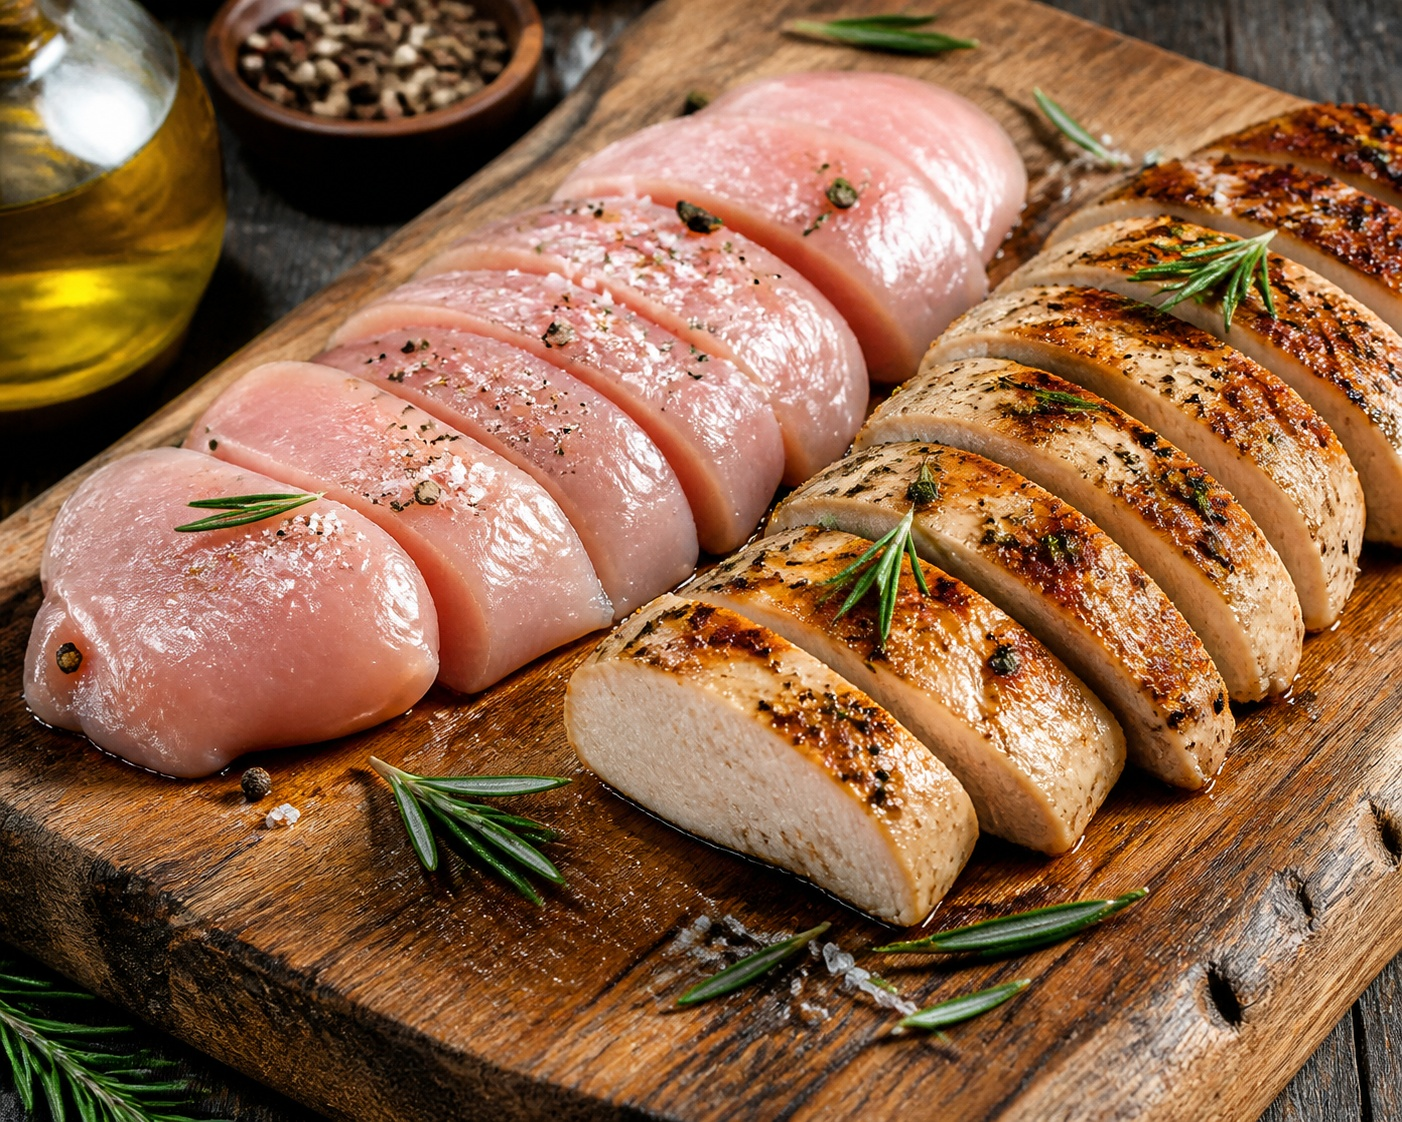
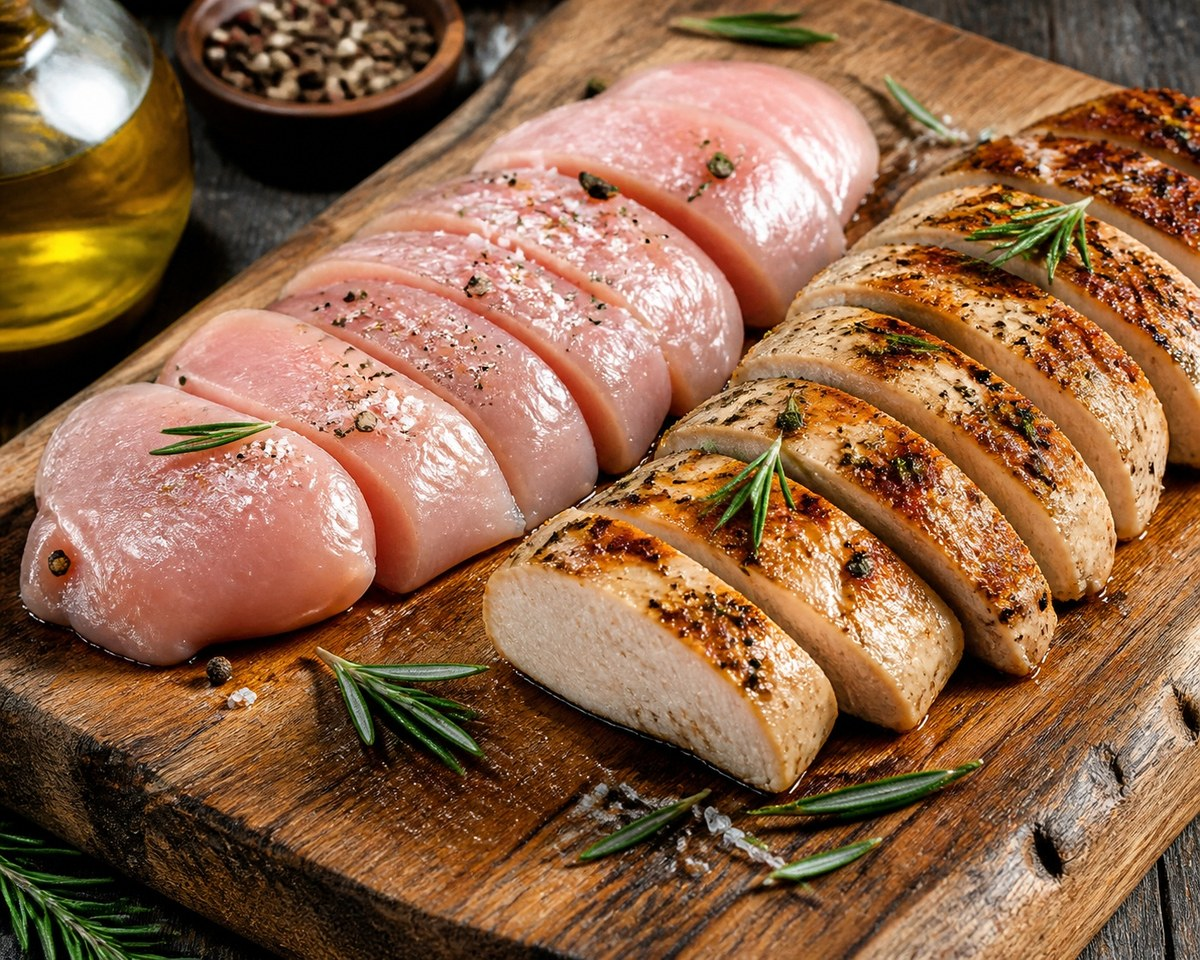
perf(lcp): 히어로 이미지 2장 1200px 규격화 — 닭가슴살 797KB→362KB, 고등어 729KB→289KB
- 1402x1122·1536x1024로 남아 있던 두 이미지를 다른 글과 같은 1200px 기준으로 리샘플(비율 유지)
- JPEG q88·progressive·optimize 재인코딩, 표시 크기(최대 740px) 대비 1.6x 해상도 유지
- 해당 4편(한·영)의 width/height 속성을 실제 파일 크기와 일치하도록 갱신

Changed region(s): [[0.9558, 0.6562, 0.9867, 0.6875]]

diff --git a/_posts/2026-11-07-mackerel-nutrition-benefits.md b/_posts/2026-11-07-mackerel-nutrition-benefits.md
@@ -2,7 +2,7 @@
 layout: post
 title: "고등어 칼로리 205kcal와 오메가-3 2,299mg, 구이 vs 조림"
 date: 2026-11-07 14:30:00 +0900
-last_modified_at: 2026-11-16 08:48:19 +0900
+last_modified_at: 2026-11-16 08:55:09 +0900
 lang: ko
 category: "수산물"
 tags: [고등어, 오메가3, DHA, EPA, 뇌건강, 혈관건강]
@@ -11,7 +11,7 @@ permalink: /posts/mackerel-nutrition-benefits/
 image: "/assets/images/mackerel.jpg"
 ---
 
-<img src="/assets/images/mackerel.jpg" alt="신선한 고등어와 노릇하게 구워진 고등어 구이 단면" width="1536" height="1024" loading="eager" fetchpriority="high" decoding="async">
+<img src="/assets/images/mackerel.jpg" alt="신선한 고등어와 노릇하게 구워진 고등어 구이 단면" width="1200" height="800" loading="eager" fetchpriority="high" decoding="async">
 *▲ 짙푸른 등과 은백색 복부를 지닌 고등어(Mackerel)는 혈관벽의 염증을 잠재우는 EPA와 뇌신경세포 시냅스 가소성을 유지하는 DHA, 그리고 뼈 건강의 핵심인 비타민 D가 최상급으로 농축된 천연 오메가-3의 보고입니다.*
 
 <div class="answer-first">

diff --git a/_posts/2026-11-07-chicken-breast-nutrition-benefits.md b/_posts/2026-11-07-chicken-breast-nutrition-benefits.md
@@ -2,7 +2,7 @@
 layout: post
 title: "닭가슴살 100g 단백질 23.1g과 칼로리 110kcal, 삶는 법"
 date: 2026-11-07 14:30:00 +0900
-last_modified_at: 2026-11-16 08:48:19 +0900
+last_modified_at: 2026-11-16 08:55:09 +0900
 lang: ko
 category: "육류"
 tags: [닭가슴살, 단백질, BCAA, 이미다졸디펩티드, 근합성]
@@ -11,7 +11,7 @@ permalink: /posts/chicken-breast-nutrition-benefits/
 image: "/assets/images/chicken-breast.jpg"
 ---
 
-<img src="/assets/images/chicken-breast.jpg" alt="신선한 닭가슴살 조리 단면" width="1402" height="1122" loading="eager" fetchpriority="high" decoding="async">
+<img src="/assets/images/chicken-breast.jpg" alt="신선한 닭가슴살 조리 단면" width="1200" height="960" loading="eager" fetchpriority="high" decoding="async">
 *▲ 저지방 고단백의 대표 식재료인 닭가슴살(Chicken Breast)은 골격근 합성의 방아쇠인 류신(Leucine)을 비롯한 BCAA와 철새의 장거리 비행을 지탱하는 항피로 펩타이드인 이미다졸 디펩티드의 결정체입니다.*
 
 <div class="answer-first">

diff --git a/_posts/2026-11-07-en-chicken-breast-nutrition-benefits.md b/_posts/2026-11-07-en-chicken-breast-nutrition-benefits.md
@@ -2,7 +2,7 @@
 layout: post
 title: "Chicken Breast Nutrition: 23 g Protein, 110 Calories"
 date: 2026-11-07 14:30:00 +0900
-last_modified_at: 2026-11-16 08:48:19 +0900
+last_modified_at: 2026-11-16 08:55:09 +0900
 lang: en
 category: "Meat"
 tags: [Chicken Breast, Protein, BCAA, Imidazole Dipeptides, Muscle Protein Synthesis]
@@ -11,7 +11,7 @@ permalink: /en/posts/chicken-breast-nutrition-benefits/
 image: "/assets/images/chicken-breast.jpg"
 ---
 
-<img src="/assets/images/chicken-breast.jpg" alt="Fresh Sliced Cooked Chicken Breast on Cutting Board" width="1402" height="1122" loading="eager" fetchpriority="high" decoding="async">
+<img src="/assets/images/chicken-breast.jpg" alt="Fresh Sliced Cooked Chicken Breast on Cutting Board" width="1200" height="960" loading="eager" fetchpriority="high" decoding="async">
 *▲ Low-fat and dense in essential amino acids, chicken breast serves as the gold standard protein source, providing leucine triggers for myofibrillar protein synthesis and anti-fatigue imidazole dipeptides.*
 
 <div class="answer-first">

diff --git a/_posts/2026-11-07-en-mackerel-nutrition-benefits.md b/_posts/2026-11-07-en-mackerel-nutrition-benefits.md
@@ -2,7 +2,7 @@
 layout: post
 title: "Mackerel Nutrition: 205 Calories, 2,299 mg EPA+DHA"
 date: 2026-11-07 14:30:00 +0900
-last_modified_at: 2026-11-16 08:48:19 +0900
+last_modified_at: 2026-11-16 08:55:09 +0900
 lang: en
 category: "Seafood"
 tags: [Mackerel, Omega-3, EPA, DHA, Cardiovascular Health, Brain Health]
@@ -11,7 +11,7 @@ permalink: /en/posts/mackerel-nutrition-benefits/
 image: "/assets/images/mackerel.jpg"
 ---
 
-<img src="/assets/images/mackerel.jpg" alt="Fresh and Grilled Mackerel Fillet with Lemon" width="1536" height="1024" loading="eager" fetchpriority="high" decoding="async">
+<img src="/assets/images/mackerel.jpg" alt="Fresh and Grilled Mackerel Fillet with Lemon" width="1200" height="800" loading="eager" fetchpriority="high" decoding="async">
 *▲ Characterized by dark undulating bands and silver ventral scales, mackerel stands as a premier pelagic superfood, supplying dense reserves of cardioprotective EPA, neuroprotective DHA, and bioavailable cholecalciferol (vitamin D3).*
 
 <div class="answer-first">
